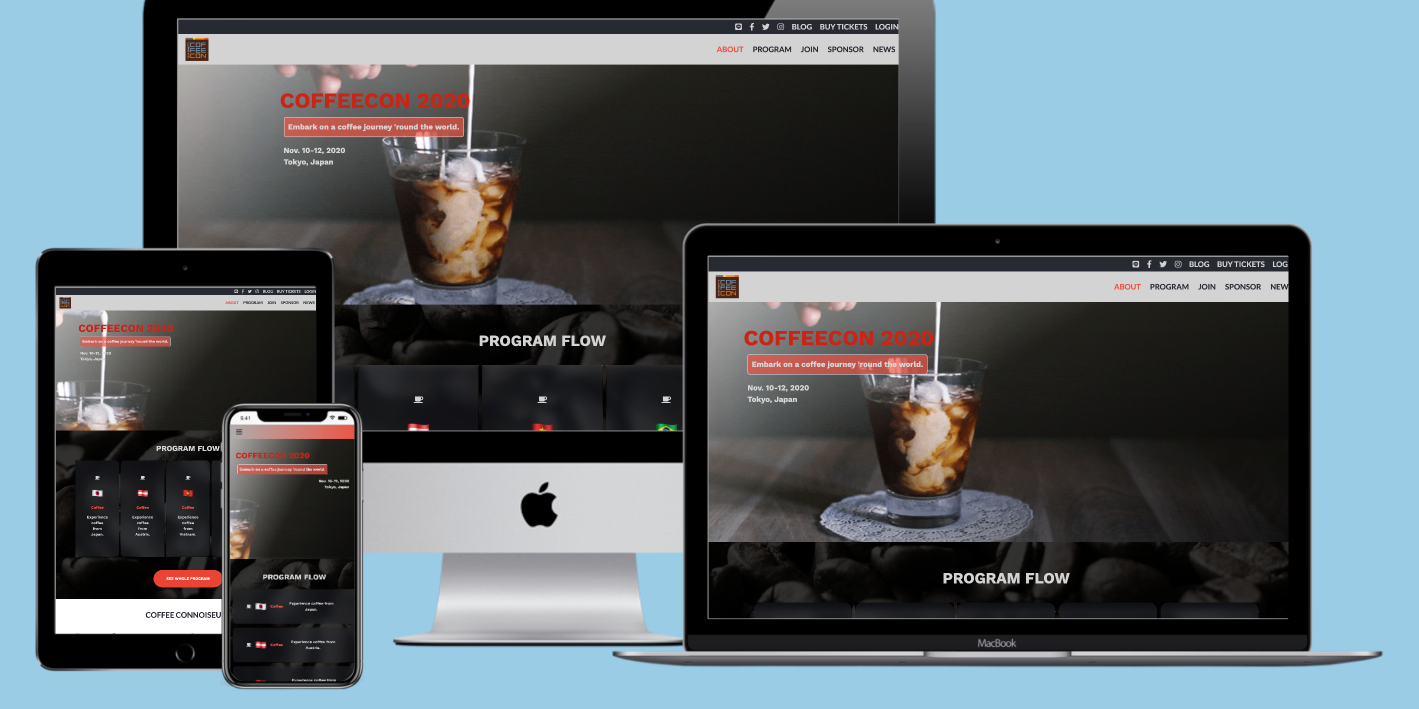
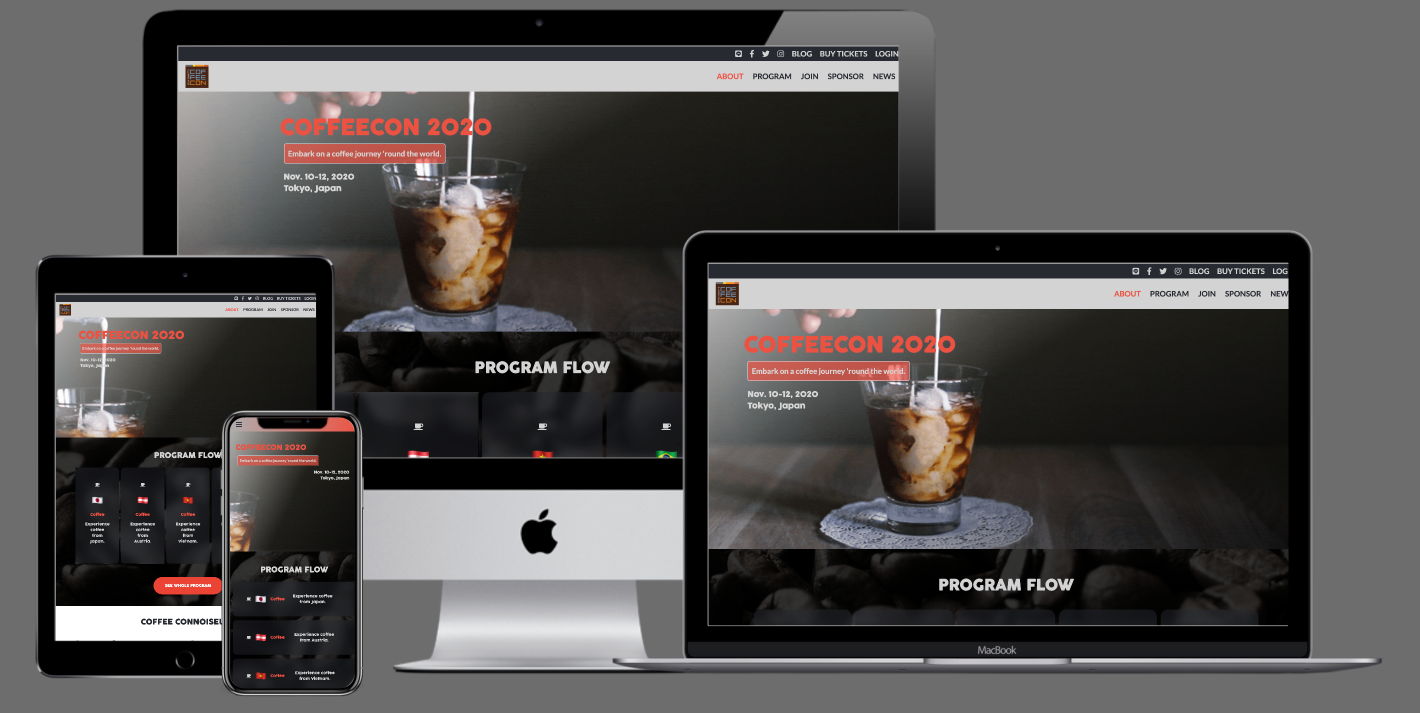
Update font for elements.

diff --git a/css/style.css b/css/style.css
@@ -215,7 +215,6 @@ h3 {
   background-size: cover;
   width: 100%;
   position: relative;
-  font-family: "Cocogoose", sans-serif;
   cursor: pointer;
   height: auto;
 }

diff --git a/scss/components/_main.scss b/scss/components/_main.scss
@@ -17,7 +17,6 @@ h3 {
   background-size: cover;
   width: 100%;
   position: relative;
-  font: $font-stack-1;
   cursor: pointer;
   height: auto;
 
